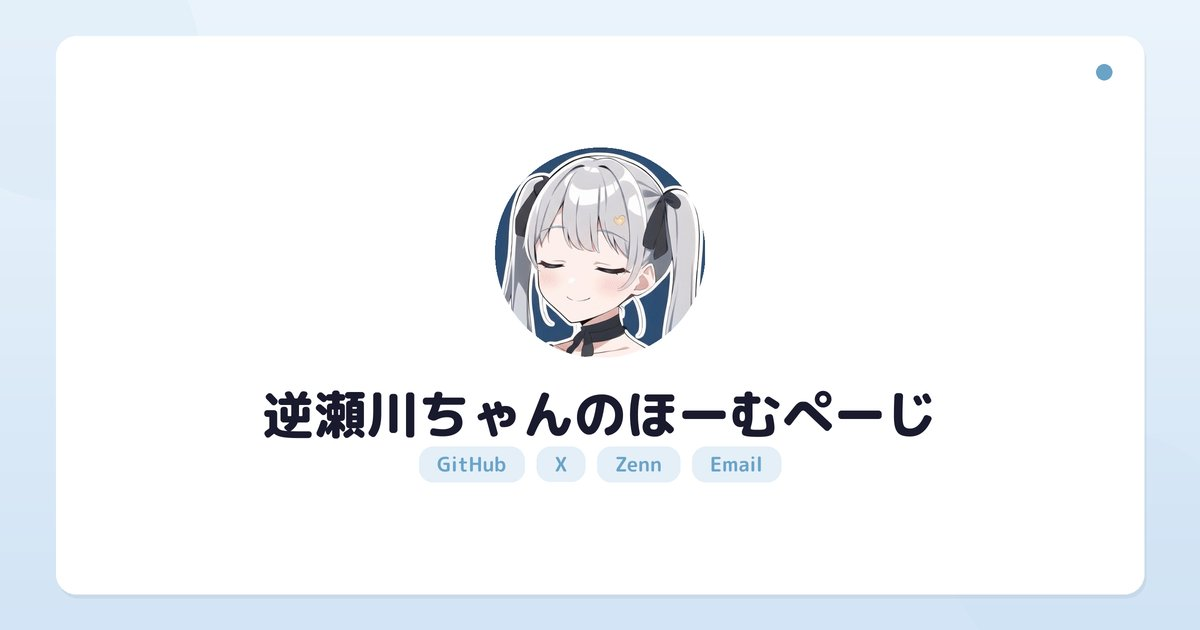
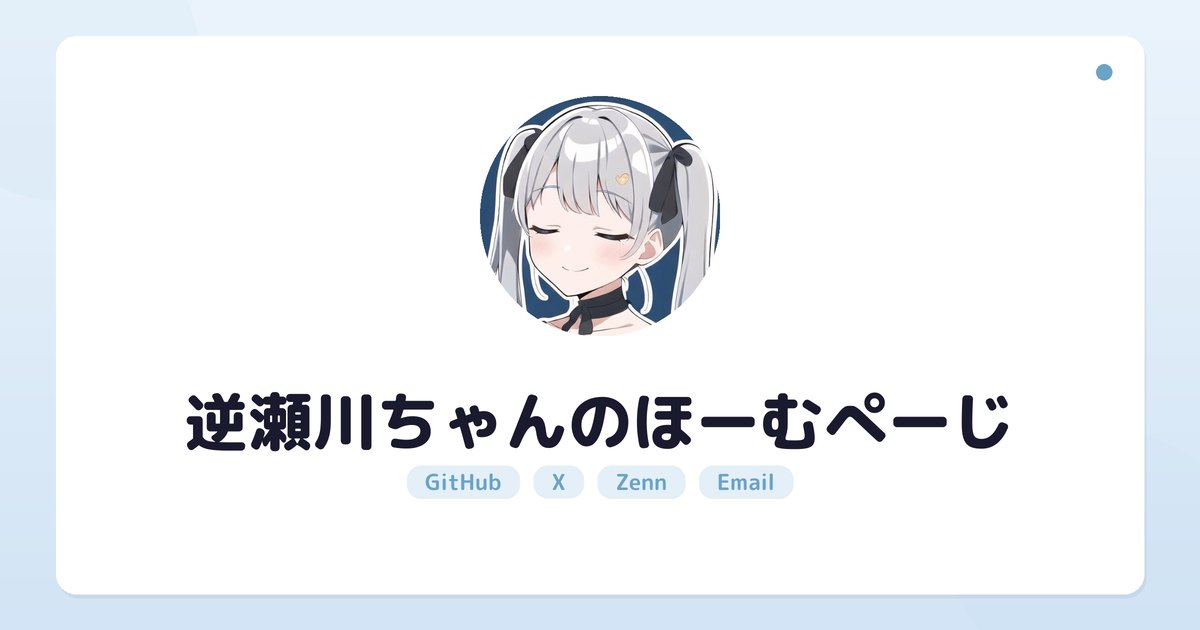
Add English portfolio OG image and shared portfolio OG generator
- New scripts/gen-portfolio-og.py renders both /og/portfolio.jpg and
  /og/en/portfolio.jpg with the same blue-card design used by the
  per-post OG generator
- Wire en/index.vto to /og/en/portfolio.jpg so /en/ no longer falls back
  to the Japanese portfolio image when shared

Changed region(s): [[0.1542, 0.6032, 0.8633, 0.8143], [0.4008, 0.1508, 0.6167, 0.573]]

diff --git a/scripts/gen-portfolio-og.py b/scripts/gen-portfolio-og.py
@@ -1,0 +1,143 @@
+#!/usr/bin/env python3
+"""Generate the portfolio (homepage) OG card for both languages.
+
+Creates:
+- og/portfolio.jpg     ("逆瀬川ちゃんのほーむぺーじ")
+- og/en/portfolio.jpg  ("Sakasegawa's Homepage")
+"""
+
+import sys
+from pathlib import Path
+
+from PIL import Image, ImageDraw, ImageFont
+
+SCRIPT_DIR = Path(__file__).parent
+PROJECT_DIR = SCRIPT_DIR.parent
+OG_DIR = PROJECT_DIR / "og"
+FONTS_DIR = SCRIPT_DIR / "fonts"
+ICON_PATH = PROJECT_DIR / "icon.png"
+
+WIDTH, HEIGHT = 1200, 630
+BG_TOP = (235, 244, 252)
+BG_BOTTOM = (210, 228, 245)
+WHITE = (255, 255, 255)
+TEXT_DARK = (26, 26, 46)
+ACCENT_BLUE = (107, 163, 199)
+PILL_BG = (228, 239, 248)
+PILL_FG = (107, 163, 199)
+CIRCLE_DECO = (200, 222, 242, 50)
+
+
+def render(title: str, output_path: Path):
+    S = 2
+    W, H = WIDTH * S, HEIGHT * S
+
+    font_title = ImageFont.truetype(str(FONTS_DIR / "MPLUSRounded1c-ExtraBold.ttf"), 64 * S)
+    font_pill = ImageFont.truetype(str(FONTS_DIR / "MPLUSRounded1c-Bold.ttf"), 22 * S)
+
+    # Background gradient
+    img = Image.new("RGB", (W, H), WHITE)
+    for y in range(H):
+        t = y / H
+        r = int(BG_TOP[0] + (BG_BOTTOM[0] - BG_TOP[0]) * t)
+        g = int(BG_TOP[1] + (BG_BOTTOM[1] - BG_TOP[1]) * t)
+        b = int(BG_TOP[2] + (BG_BOTTOM[2] - BG_TOP[2]) * t)
+        for x in range(W):
+            img.putpixel((x, y), (r, g, b))
+
+    # Decorative circles
+    overlay = Image.new("RGBA", (W, H), (0, 0, 0, 0))
+    odraw = ImageDraw.Draw(overlay)
+    odraw.ellipse([-80 * S, -80 * S, 200 * S, 200 * S], fill=CIRCLE_DECO)
+    odraw.ellipse([W - 250 * S, H - 200 * S, W + 50 * S, H + 50 * S], fill=CIRCLE_DECO)
+    img_rgba = img.convert("RGBA")
+    img_rgba = Image.alpha_composite(img_rgba, overlay)
+    img = img_rgba.convert("RGB")
+    draw = ImageDraw.Draw(img)
+
+    # White card with shadow
+    card_mx, card_my = 56 * S, 36 * S
+    cx, cy = card_mx, card_my
+    cw = W - card_mx * 2
+    ch = H - card_my * 2
+    radius = 20 * S
+
+    shadow = Image.new("RGBA", (W, H), (0, 0, 0, 0))
+    sdraw = ImageDraw.Draw(shadow)
+    sdraw.rounded_rectangle(
+        [cx + 2 * S, cy + 4 * S, cx + cw + 2 * S, cy + ch + 4 * S],
+        radius=radius, fill=(0, 0, 0, 12),
+    )
+    img_rgba = img.convert("RGBA")
+    img_rgba = Image.alpha_composite(img_rgba, shadow)
+    img = img_rgba.convert("RGB")
+    draw = ImageDraw.Draw(img)
+
+    draw.rounded_rectangle([cx, cy, cx + cw, cy + ch], radius=radius, fill=WHITE)
+
+    # Top-right accent dot
+    dot_r = 8 * S
+    draw.ellipse(
+        [cx + cw - 48 * S, cy + 28 * S, cx + cw - 48 * S + dot_r * 2, cy + 28 * S + dot_r * 2],
+        fill=ACCENT_BLUE,
+    )
+
+    # Avatar (centered horizontally)
+    avatar_size = 240 * S
+    avatar_x = (W - avatar_size) // 2
+    avatar_y = cy + 60 * S
+    if ICON_PATH.exists():
+        avatar = Image.open(ICON_PATH).convert("RGBA")
+        avatar = avatar.resize((avatar_size, avatar_size), Image.LANCZOS)
+        mask = Image.new("L", (avatar_size, avatar_size), 0)
+        ImageDraw.Draw(mask).ellipse([0, 0, avatar_size, avatar_size], fill=255)
+        img.paste(avatar.convert("RGB"), (avatar_x, avatar_y), mask)
+        draw = ImageDraw.Draw(img)
+
+    # Title (centered below avatar)
+    title_bbox = font_title.getbbox(title)
+    title_w = title_bbox[2] - title_bbox[0]
+    title_h = title_bbox[3] - title_bbox[1]
+    title_x = (W - title_w) // 2 - title_bbox[0]
+    title_y = avatar_y + avatar_size + 40 * S
+    draw.text((title_x, title_y), title, font=font_title, fill=TEXT_DARK)
+
+    # Social pills (centered below title)
+    pills = ["GitHub", "X", "Zenn", "Email"]
+    pill_pad_x, pill_pad_y = 18 * S, 8 * S
+    pill_gap = 14 * S
+
+    pill_metrics = []
+    for label in pills:
+        bbox = font_pill.getbbox(label)
+        w = bbox[2] - bbox[0] + pill_pad_x * 2
+        h = bbox[3] - bbox[1] + pill_pad_y * 2
+        pill_metrics.append((label, bbox, w, h))
+
+    pills_total_w = sum(m[2] for m in pill_metrics) + pill_gap * (len(pills) - 1)
+    pill_y = title_y + title_h + 30 * S
+    pill_x = (W - pills_total_w) // 2
+
+    for label, bbox, w, h in pill_metrics:
+        draw.rounded_rectangle(
+            [pill_x, pill_y, pill_x + w, pill_y + h],
+            radius=14 * S, fill=PILL_BG,
+        )
+        text_x = pill_x + pill_pad_x - bbox[0]
+        text_y = pill_y + pill_pad_y - bbox[1]
+        draw.text((text_x, text_y), label, font=font_pill, fill=PILL_FG)
+        pill_x += w + pill_gap
+
+    img = img.resize((WIDTH, HEIGHT), Image.LANCZOS)
+    output_path.parent.mkdir(parents=True, exist_ok=True)
+    img.save(str(output_path), "JPEG", quality=85, optimize=True)
+    print(f"  generated: {output_path.relative_to(PROJECT_DIR)}")
+
+
+def main():
+    render("逆瀬川ちゃんのほーむぺーじ", OG_DIR / "portfolio.jpg")
+    render("Sakasegawa's Homepage", OG_DIR / "en" / "portfolio.jpg")
+
+
+if __name__ == "__main__":
+    main()
